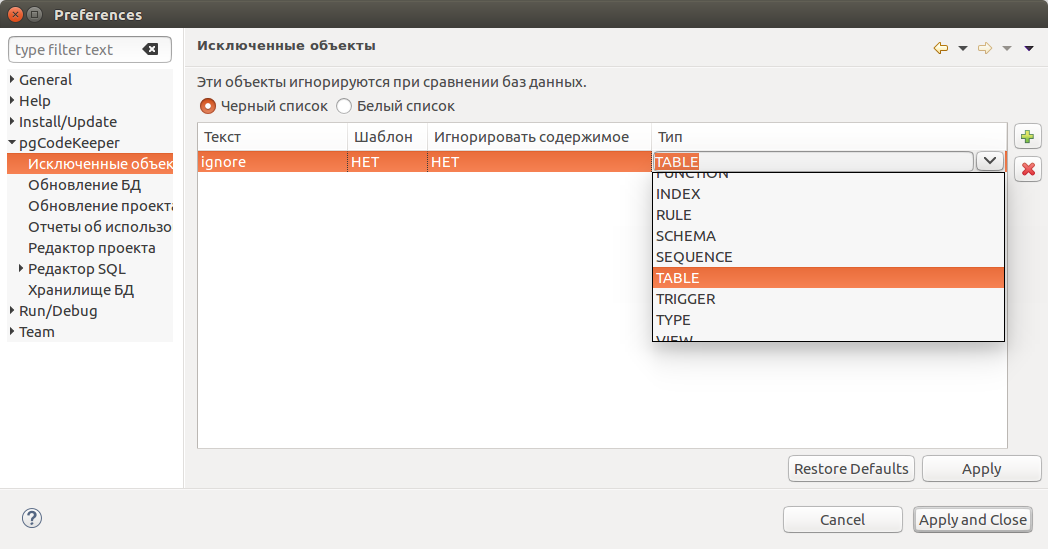
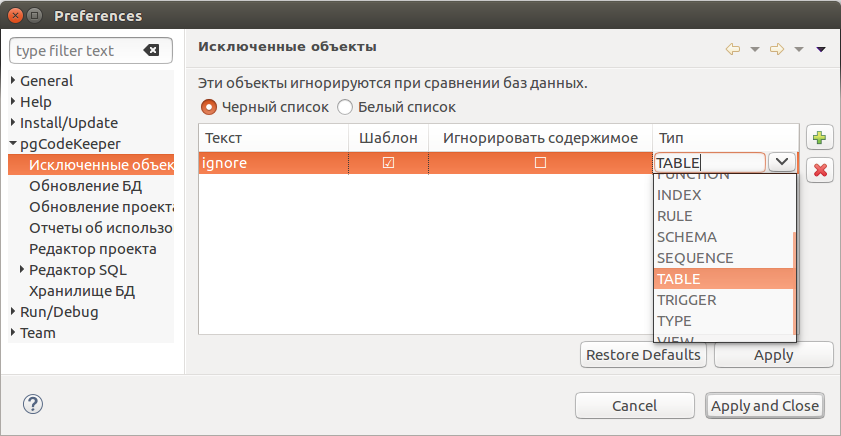
updated description for ignored objects in global settings
(updated images wiht flags and description about possibility to edit)

Changed region(s): [[0.0, 0.0, 1.0, 1.0], [0.0, 0.8945, 0.0618, 0.9541], [0.0, 0.8349, 0.0309, 0.8647]]

diff --git a/docs/preferences.rst b/docs/preferences.rst
@@ -31,13 +31,13 @@
 
 .. image:: ../images/ignore_list_add_item.png
 
-Все дополнительные настройки списка доступны для редактирования.
+Все настройки списка доступны для редактирования.
 
 .. image:: ../images/ignore_list.png
 
 .. note:: В данном случае список исключаемых объектов будет **общим** и будет распространять свое действие на все проекты находящиеся в директории проектов. Подробное описание работы со списками находится в разделе :ref:`ignoreList`.
 
-Переключатель **Белый список** позволяет инвертировать черный список в белый.
+Переключатель **Черный список** - **Белый список** позволяет инвертировать черный список в белый и обратно.
 
 **Примеры работы с исключенными объектами**
 
